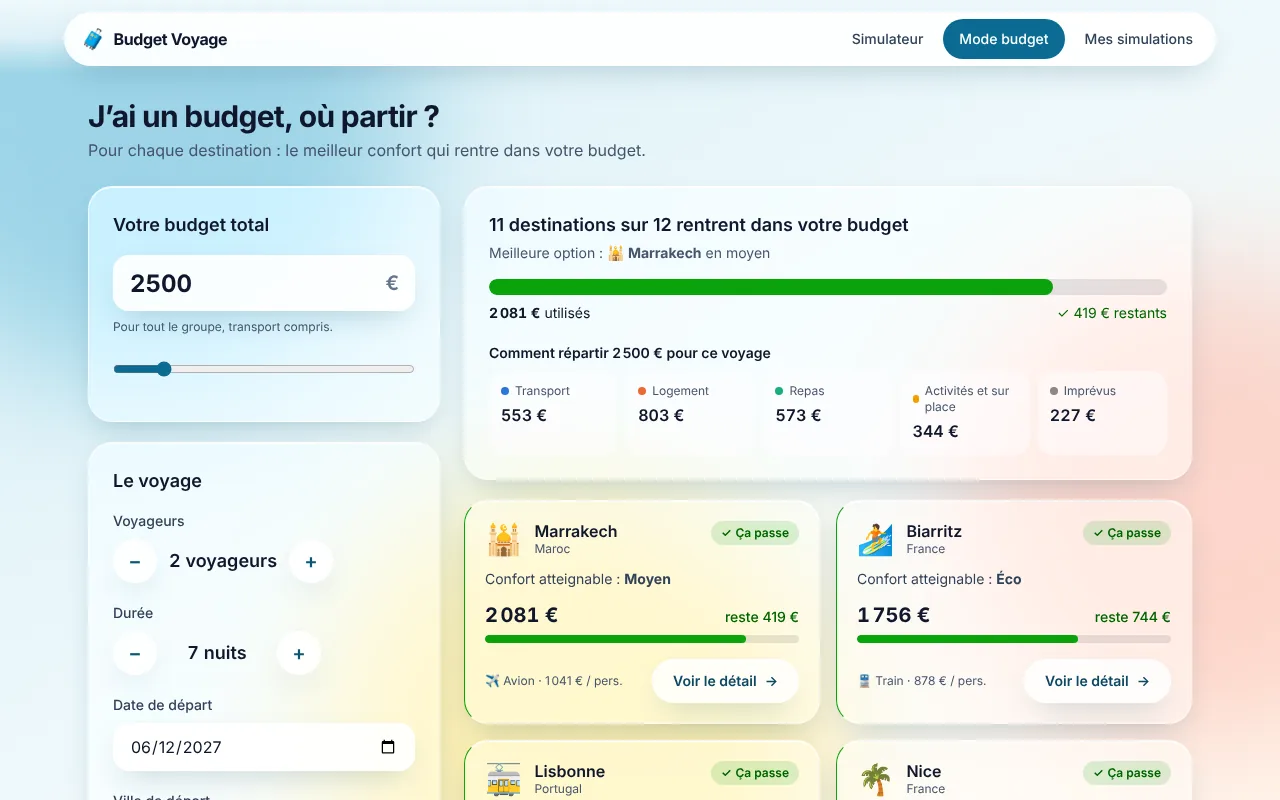
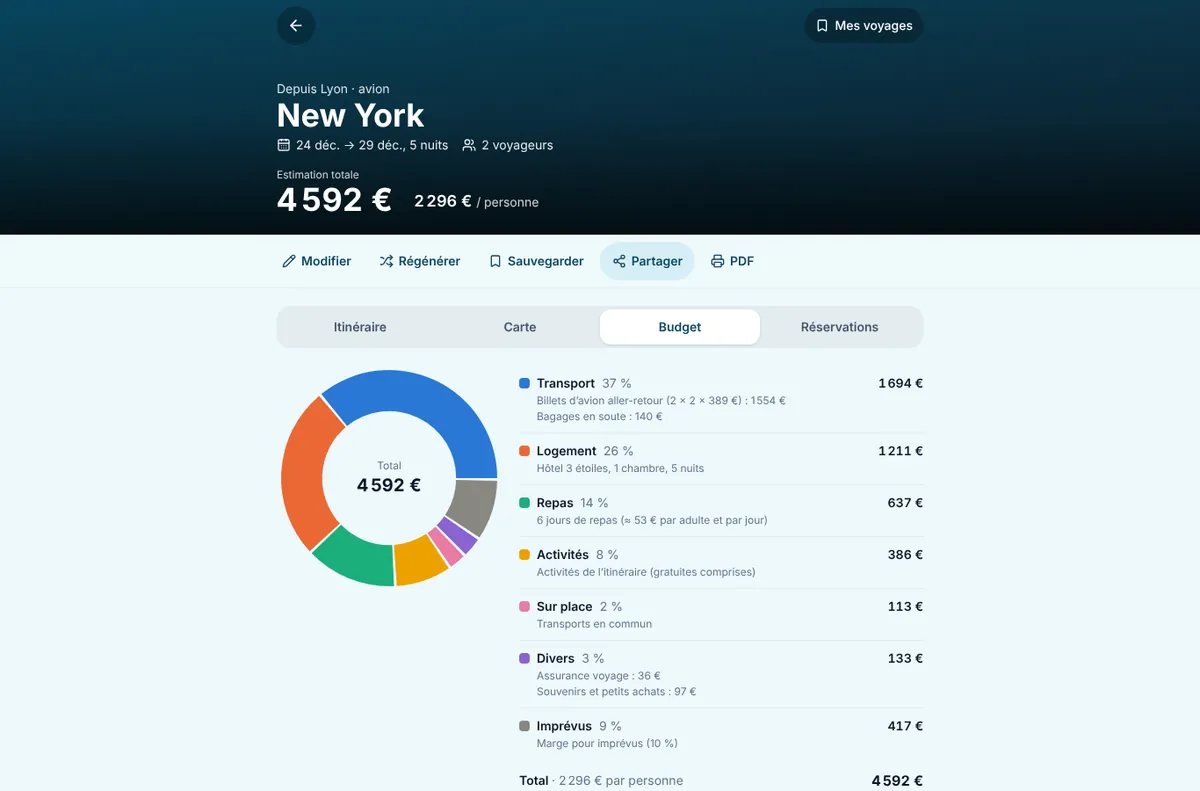
Refonte, phase 6 : finitions, README et test final
Recherche d'adresse sans biais de proximité, villes classées avant les commerces
homonymes ; recadrage de la carte quand le panneau change de taille ; photos
Wikipédia : drapeaux et blasons écartés, photo de l'article anglais en secours,
images plus grandes pour l'en-tête ; lieux de culte gratuits ; dates lisibles
dans les liens ; focus clavier visible, animations réduites sur demande ;
métadonnées, aperçu de partage, captures et README de la nouvelle version.

Claude-Session: https://claude.ai/code/session_01FtU6FVDRf54SBzWiw3Xjkb

diff --git a/src/services/services.test.ts b/src/services/services.test.ts
@@ -3,11 +3,11 @@ import { avecCache, viderCache } from './cache'
 import { coordonneesEnTexte, versLieu as lieuNominatim } from './nominatim'
 import { calculerTrajet } from './osrm'
 import { dedoublonner, requeteOverpass, typeDepuisTags, versLieuVisite } from './overpass'
-import { versLieu as lieuPhoton } from './photon'
+import { classerLieux, versLieu as lieuPhoton } from './photon'
 import { trouverLieux } from './lieux'
 import { rechercherLieux } from './recherche'
 import { creerLimiteur, enParallele } from './reseau'
-import { lireReferenceWikipedia, resumeWikipedia, typeDepuisTitre } from './wikipedia'
+import { estLieuDeCulte, estUnePhoto, imageLargeur, lireReferenceWikipedia, resumeWikipedia, typeDepuisTitre } from './wikipedia'
 
 const troyes = { lat: 48.2973, lon: 4.0744 }
 const annecy = { lat: 45.8992, lon: 6.1294 }
@@ -70,6 +70,12 @@ describe('Photon et recherche d’adresse', () => {
     const lieu = lieuPhoton({ street: 'Rue de la Paix', housenumber: '12', city: 'Paris', country: 'France', countrycode: 'FR' }, [2.33, 48.87])
     expect(lieu.nom).toBe('12 Rue de la Paix')
     expect(lieu.detail).toBe('Paris, France')
+  })
+
+  it('classe les villes avant les commerces et les rues homonymes', () => {
+    const l = (nom: string, type: string) => ({ nom, detail: '', lat: 0, lon: 0, type })
+    const r = classerLieux([l('New York Café', 'house'), l('Avenue de New York', 'street'), l('New York', 'city'), l('New York', 'state')])
+    expect(r.map((x) => `${x.nom}/${x.type}`)).toEqual(['New York/city', 'New York/state', 'Avenue de New York/street', 'New York Café/house'])
   })
 
   it('utilise Photon quand il répond', async () => {
@@ -214,9 +220,32 @@ describe('Wikipédia', () => {
     expect(r).toMatchObject({ langue: 'en', titre: 'Belém', image: 'https://upload.wikimedia.org/x.jpg' })
   })
 
-  it('écarte les drapeaux et blasons (images SVG)', async () => {
-    simulerFetch([['summary/Lisbonne', { type: 'standard', title: 'Lisbonne', extract: 'Capitale.', thumbnail: { source: 'https://upload.wikimedia.org/thumb/a/ab/Bras%C3%A3o_de_Lisboa.svg/320px-Bras%C3%A3o_de_Lisboa.svg.png' } }]])
-    expect((await resumeWikipedia('Lisbonne'))?.image).toBeUndefined()
+  it('demande une vignette plus large sans toucher aux autres adresses', () => {
+    expect(imageLargeur('https://upload.wikimedia.org/wikipedia/commons/thumb/a/b/Lisbon.jpg/330px-Lisbon.jpg?utm_source=x', 1280)).toBe('https://upload.wikimedia.org/wikipedia/commons/thumb/a/b/Lisbon.jpg/1280px-Lisbon.jpg?utm_source=x')
+    expect(imageLargeur('https://x/thumb/a/b/L.jpg/1920px-L.jpg', 1280)).toBe('https://x/thumb/a/b/L.jpg/1920px-L.jpg')
+    expect(imageLargeur('https://upload.wikimedia.org/wikipedia/commons/thumb/a/b/Lisbon.jpg/330px-Lisbon.jpg', 1280)).toBe('https://upload.wikimedia.org/wikipedia/commons/thumb/a/b/Lisbon.jpg/1280px-Lisbon.jpg')
+    expect(imageLargeur('https://example.org/photo.jpg', 1280)).toBe('https://example.org/photo.jpg')
+  })
+
+  it('compte les églises comme gratuites', () => {
+    expect(estLieuDeCulte('Église Saint-François d’Annecy')).toBe(true)
+    expect(estLieuDeCulte('Musée-Château d’Annecy')).toBe(false)
+  })
+
+  it('reconnaît les images qui ne sont pas des photos', () => {
+    expect(estUnePhoto('https://upload.wikimedia.org/thumb/a/ab/Bras%C3%A3o_de_Lisboa.svg/320px-Bras%C3%A3o_de_Lisboa.svg.png')).toBe(false)
+    expect(estUnePhoto('https://thumb.wikimedia.org/wikipedia/commons/thumb/1/16/Bandeira_municipal_de_Lisboa.png/330px-Bandeira_municipal_de_Lisboa.png')).toBe(false)
+    expect(estUnePhoto('https://upload.wikimedia.org/x/Flag_of_New_York_City.png')).toBe(false)
+    expect(estUnePhoto('https://upload.wikimedia.org/thumb/x/Lisbon_skyline.jpg/400px-Lisbon_skyline.jpg')).toBe(true)
+  })
+
+  it('garde le texte français mais emprunte la photo de l’article anglais si besoin', async () => {
+    simulerFetch([
+      ['fr.wikipedia.org/api/rest_v1/page/summary/Lisbonne', { type: 'standard', title: 'Lisbonne', extract: 'Capitale du Portugal.', thumbnail: { source: 'https://x/Bandeira_de_Lisboa.png' } }],
+      ['en.wikipedia.org/api/rest_v1/page/summary/Lisbonne', { type: 'standard', title: 'Lisbon', extract: 'Capital of Portugal.', thumbnail: { source: 'https://x/Lisbon_panorama.jpg' } }],
+    ])
+    const r = await resumeWikipedia('Lisbonne')
+    expect(r).toMatchObject({ langue: 'fr', extrait: 'Capitale du Portugal.', image: 'https://x/Lisbon_panorama.jpg' })
   })
 
   it('renvoie null sans planter si Wikipédia ne répond pas', async () => {

diff --git a/src/services/wikipedia.ts b/src/services/wikipedia.ts
@@ -27,6 +27,20 @@ export function lireReferenceWikipedia(reference: string): { langue: Langue; tit
   return correspondance ? { langue: correspondance[1] as Langue, titre: correspondance[2] } : { langue: 'fr', titre: reference }
 }
 
+/**
+ * Écarte les images qui ne sont pas des photos : drapeaux, blasons, logos, cartes
+ * (fichiers SVG ou noms explicites, en plusieurs langues).
+ */
+export function estUnePhoto(url: string): boolean {
+  let nom = url
+  try {
+    nom = decodeURIComponent(url)
+  } catch {
+    /* adresse mal encodée : on teste telle quelle */
+  }
+  return !/\.svg\/|flag|drapeau|bandeira|bandera|bandiera|flagge|blason|armoiries|coat[_ ]of[_ ]arms|brasão|escudo|wappen|stemma|seal[_ ]of|logo|emblem|locator|location[_ ]map|carte[_ ]|map[_ ]of/i.test(nom)
+}
+
 async function resumeDansLangue(titre: string, langue: Langue, signal?: AbortSignal): Promise<ResumeWikipedia | null> {
   return avecCache(`wiki-resume:${langue}:${titre}`, async () => {
     const url = `https://${langue}.wikipedia.org/api/rest_v1/page/summary/${encodeURIComponent(titre.replaceAll(' ', '_'))}`
@@ -36,8 +50,7 @@ async function resumeDansLangue(titre: string, langue: Langue, signal?: AbortSig
       return {
         titre: r.title,
         extrait: r.extract,
-        // Les images SVG sont des drapeaux, blasons ou logos : pas de vraies photos
-        image: r.thumbnail?.source && !/\.svg\//i.test(r.thumbnail.source) ? r.thumbnail.source : undefined,
+        image: r.thumbnail?.source && estUnePhoto(r.thumbnail.source) ? r.thumbnail.source : undefined,
         lien: r.content_urls?.desktop?.page ?? `https://${langue}.wikipedia.org/wiki/${encodeURIComponent(titre)}`,
         langue,
       }
@@ -52,8 +65,22 @@ async function resumeDansLangue(titre: string, langue: Langue, signal?: AbortSig
 export async function resumeWikipedia(reference: string, signal?: AbortSignal): Promise<ResumeWikipedia | null> {
   const { langue, titre } = lireReferenceWikipedia(reference)
   const premier = await resumeDansLangue(titre, langue, signal)
-  if (premier || langue === 'en') return premier
-  return resumeDansLangue(titre, 'en', signal)
+  if (langue === 'en' || (premier && premier.image)) return premier
+  // Pas d'article, ou pas de vraie photo : on regarde l'article anglais (souvent illustré d'une photo de la ville)
+  const anglais = await resumeDansLangue(premier?.titre ?? titre, 'en', signal)
+  if (!premier) return anglais
+  return anglais?.image ? { ...premier, image: anglais.image } : premier
+}
+
+/** Églises, cathédrales… : entrée généralement libre. */
+export const estLieuDeCulte = (titre: string) => /(^|[^\p{L}])([ée]glise|cath[ée]drale|basilique|chapelle|temple|mosqu[ée]e|synagogue|church|cathedral|chapel)(?![\p{L}])/iu.test(titre)
+
+/**
+ * Vignette Wikimedia à la largeur voulue (les adresses « …/330px-Fichier.jpg » acceptent les largeurs standard : 500, 960, 1280…).
+ * Laisse l'adresse telle quelle si elle n'a pas ce format.
+ */
+export function imageLargeur(url: string, largeur: number): string {
+  return url.replace(/\/(\d+)px-([^/?]+)(\?.*)?$/, (tout, px, fichier, requete = '') => (Number(px) >= largeur ? tout : `/${largeur}px-${fichier}${requete}`))
 }
 
 /** Devine le type d'un lieu Wikipédia d'après son titre (pas de tags comme dans OSM). */
@@ -87,6 +114,7 @@ export async function lieuxWikipedia(centre: Coordonnees, rayonKm: number, signa
       id: `wiki-${g.pageid}`,
       nom: g.title,
       type: typeDepuisTitre(g.title),
+      ...(estLieuDeCulte(g.title) ? { gratuit: true } : {}),
       lat: g.lat,
       lon: g.lon,
       wikipedia: `fr:${g.title}`,

diff --git a/src/App.tsx b/src/App.tsx
@@ -1,36 +1,45 @@
-import { lazy, Suspense } from 'react'
-import { HashRouter, Navigate, Route, Routes } from 'react-router'
+import { lazy, Suspense } from "react";
+import { MotionConfig } from "framer-motion";
+import { HashRouter, Navigate, Route, Routes } from "react-router";
 
 // Chaque écran est chargé à la demande : la carte (Leaflet) et les graphiques ne pèsent que là où ils servent.
-const Carte = lazy(() => import('./pages/Carte'))
-const Configurer = lazy(() => import('./pages/Configurer'))
-const Calcul = lazy(() => import('./pages/Calcul'))
-const Voyage = lazy(() => import('./pages/Voyage'))
-const MesVoyages = lazy(() => import('./pages/MesVoyages'))
-const Partage = lazy(() => import('./pages/Partage'))
+const Carte = lazy(() => import("./pages/Carte"));
+const Configurer = lazy(() => import("./pages/Configurer"));
+const Calcul = lazy(() => import("./pages/Calcul"));
+const Voyage = lazy(() => import("./pages/Voyage"));
+const MesVoyages = lazy(() => import("./pages/MesVoyages"));
+const Partage = lazy(() => import("./pages/Partage"));
 
 export const ROUTES = {
-  carte: '/',
-  configurer: '/configurer',
-  calcul: '/calcul',
-  voyage: '/voyage',
-  mesVoyages: '/mes-voyages',
-} as const
+  carte: "/",
+  configurer: "/configurer",
+  calcul: "/calcul",
+  voyage: "/voyage",
+  mesVoyages: "/mes-voyages",
+} as const;
 
 export default function App() {
   return (
-    <HashRouter>
-      <Suspense fallback={<div className="grid min-h-dvh place-items-center text-slate-500">Chargement…</div>}>
-        <Routes>
-          <Route path={ROUTES.carte} element={<Carte />} />
-          <Route path={ROUTES.configurer} element={<Configurer />} />
-          <Route path={ROUTES.calcul} element={<Calcul />} />
-          <Route path={ROUTES.voyage} element={<Voyage />} />
-          <Route path={ROUTES.mesVoyages} element={<MesVoyages />} />
-          <Route path="/partage" element={<Partage />} />
-          <Route path="*" element={<Navigate to={ROUTES.carte} replace />} />
-        </Routes>
-      </Suspense>
-    </HashRouter>
-  )
+    <MotionConfig reducedMotion="user">
+      <HashRouter>
+        <Suspense
+          fallback={
+            <div className="grid min-h-dvh place-items-center text-slate-500">
+              Chargement…
+            </div>
+          }
+        >
+          <Routes>
+            <Route path={ROUTES.carte} element={<Carte />} />
+            <Route path={ROUTES.configurer} element={<Configurer />} />
+            <Route path={ROUTES.calcul} element={<Calcul />} />
+            <Route path={ROUTES.voyage} element={<Voyage />} />
+            <Route path={ROUTES.mesVoyages} element={<MesVoyages />} />
+            <Route path="/partage" element={<Partage />} />
+            <Route path="*" element={<Navigate to={ROUTES.carte} replace />} />
+          </Routes>
+        </Suspense>
+      </HashRouter>
+    </MotionConfig>
+  );
 }

diff --git a/src/engine/liens.ts b/src/engine/liens.ts
@@ -56,6 +56,7 @@ export function genererLiensReservation({ depart, arrivee, reglages }: EntreeLie
   const av = reglagesEffectifs(reglages)
   const aller = s.dateDepart
   const retour = ajouterJours(s.dateDepart, s.nuits)
+  const jj = (iso: string) => iso.split('-').reverse().join('/')
   const de = ville(depart)
   const a = ville(arrivee)
   const coord = (l: Lieu) => `${l.lat.toFixed(5)},${l.lon.toFixed(5)}`
@@ -66,7 +67,7 @@ export function genererLiensReservation({ depart, arrivee, reglages }: EntreeLie
       {
         categorie: 'transport',
         titre: 'Comparer les vols (Google Vols)',
-        description: `${de} → ${a}, aller le ${aller}, retour le ${retour}, ${s.adultes + s.enfants} voyageur(s)`,
+        description: `${de} → ${a}, aller le ${jj(aller)}, retour le ${jj(retour)}, ${s.adultes + s.enfants} voyageur(s)`,
         url: `https://www.google.com/travel/flights?hl=fr&q=${q(`Vols de ${de} à ${a} le ${aller} retour le ${retour} ${s.adultes} adultes${s.enfants ? ` ${s.enfants} enfants` : ''}`)}`,
         preRempli: true,
       },
@@ -86,7 +87,7 @@ export function genererLiensReservation({ depart, arrivee, reglages }: EntreeLie
       {
         categorie: 'transport',
         titre: 'Covoiturage (BlaBlaCar)',
-        description: `Places libres pour ${de} → ${a} le ${aller}`,
+        description: `Places libres pour ${de} → ${a} le ${jj(aller)}`,
         url: `https://www.blablacar.fr/search?fn=${q(de)}&tn=${q(a)}&db=${aller}&seats=${Math.min(4, s.adultes + s.enfants)}`,
         preRempli: true,
       },
@@ -99,7 +100,7 @@ export function genererLiensReservation({ depart, arrivee, reglages }: EntreeLie
   liens.push({
     categorie: 'logement',
     titre: av.typeLogement === 'hotel' ? `Hôtels ${av.etoiles} étoiles (Booking.com)` : 'Hébergements (Booking.com)',
-    description: `${a}, du ${aller} au ${retour}, ${s.adultes} adulte(s)${s.enfants ? `, ${s.enfants} enfant(s)` : ''}`,
+    description: `${a}, du ${jj(aller)} au ${jj(retour)}, ${s.adultes} adulte(s)${s.enfants ? `, ${s.enfants} enfant(s)` : ''}`,
     url:
       `https://www.booking.com/searchresults.fr.html?ss=${q(a)}&checkin=${aller}&checkout=${retour}&group_adults=${s.adultes}&group_children=${s.enfants}&no_rooms=${chambres}` +
       (s.enfants ? Array.from({ length: s.enfants }, () => '&age=8').join('') : '') +
@@ -110,7 +111,7 @@ export function genererLiensReservation({ depart, arrivee, reglages }: EntreeLie
     liens.push({
       categorie: 'logement',
       titre: 'Appartements (Airbnb)',
-      description: `${a}, du ${aller} au ${retour}`,
+      description: `${a}, du ${jj(aller)} au ${jj(retour)}`,
       url: `https://www.airbnb.fr/s/${q(a)}/homes?checkin=${aller}&checkout=${retour}&adults=${s.adultes}&children=${s.enfants}`,
       preRempli: true,
     })

diff --git a/index.html b/index.html
@@ -3,15 +3,15 @@
   <head>
     <meta charset="UTF-8" />
     <meta name="viewport" content="width=device-width, initial-scale=1.0, viewport-fit=cover" />
-    <title>Budget Voyage — simulateur de coût de vacances</title>
-    <meta name="description" content="Estimez le coût de vos vacances poste par poste : transport, logement, repas, activités. Ou trouvez où partir avec votre budget." />
+    <title>Budget Voyage : choisissez, configurez, partez</title>
+    <meta name="description" content="Choisissez votre trajet sur la carte, réglez votre voyage et obtenez son coût poste par poste, un itinéraire jour par jour et des liens pour réserver." />
     <meta name="theme-color" content="#eef8fb" media="(prefers-color-scheme: light)" />
     <meta name="theme-color" content="#0a2535" media="(prefers-color-scheme: dark)" />
     <meta name="color-scheme" content="light dark" />
     <meta property="og:type" content="website" />
     <meta property="og:locale" content="fr_FR" />
-    <meta property="og:title" content="Budget Voyage — combien vont coûter vos vacances ?" />
-    <meta property="og:description" content="Transport, logement, repas, activités : une estimation claire poste par poste, ou les destinations qui rentrent dans votre budget." />
+    <meta property="og:title" content="Budget Voyage : combien va coûter votre voyage ?" />
+    <meta property="og:description" content="Un trajet sur la carte, quelques réglages, et vous obtenez le budget détaillé, l’itinéraire jour par jour et les liens pour réserver." />
     <meta property="og:image" content="https://santinlivio9-hub.github.io/Vacances-app/apercu.jpg" />
     <meta name="twitter:card" content="summary_large_image" />
     <link rel="icon" type="image/svg+xml" href="/favicon.svg" />

diff --git a/src/services/photon.ts b/src/services/photon.ts
@@ -46,14 +46,26 @@ export function versLieu(p: ProprietesPhoton, [lon, lat]: [number, number]): Lie
   }
 }
 
+const TYPES_LOCALITE = new Set(['city', 'town', 'village', 'locality', 'district', 'county', 'state', 'country', 'region', 'island'])
+
+/**
+ * On cherche surtout des destinations : villes, régions et pays passent devant les commerces
+ * et les rues homonymes (« New York » ne doit pas proposer d'abord un café parisien).
+ * Le tri est stable : l'ordre de pertinence de Photon est conservé à l'intérieur de chaque groupe.
+ */
+export function classerLieux(lieux: Lieu[]): Lieu[] {
+  const rang = (l: Lieu) => (l.type && TYPES_LOCALITE.has(l.type) ? 0 : l.type === 'street' ? 1 : 2)
+  return lieux.map((l, i) => ({ l, i })).sort((a, b) => rang(a.l) - rang(b.l) || a.i - b.i).map(({ l }) => l)
+}
+
 export async function rechercherPhoton(texte: string, proximite?: Coordonnees, signal?: AbortSignal): Promise<Lieu[]> {
-  const params = new URLSearchParams({ q: texte.trim(), limit: '6', lang: 'fr' })
+  const params = new URLSearchParams({ q: texte.trim(), limit: '10', lang: 'fr' })
   if (proximite) {
     params.set('lat', proximite.lat.toFixed(3))
     params.set('lon', proximite.lon.toFixed(3))
   }
   return avecCache(`photon:${params}`, async () => {
     const reponse = await lireJson<ReponsePhoton>(`${URL_PHOTON}?${params}`, { service: 'Photon', delaiMs: 5000, signal })
-    return reponse.features.map((f) => versLieu(f.properties, f.geometry.coordinates))
+    return classerLieux(reponse.features.map((f) => versLieu(f.properties, f.geometry.coordinates))).slice(0, 6)
   })
 }

diff --git a/src/pages/Voyage.tsx b/src/pages/Voyage.tsx
@@ -11,6 +11,7 @@ import { cleVoyage, useResultat } from '../store/resultat'
 import { cleTrajet, useVoyage } from '../store/voyage'
 import { formatEuros } from '../ui/format'
 import { MentionDonnees } from '../ui/MentionDonnees'
+import { imageLargeur } from '../services/wikipedia'
 import { coutsDuResultat } from '../voyage/calcul'
 import { Economies } from '../voyage/Economies'
 import { OngletItineraire } from '../voyage/OngletItineraire'
@@ -113,8 +114,8 @@ export default function Voyage() {
     <div className="min-h-dvh pb-12">
       {/* En-tête : photo, total, jauge */}
       <header className="relative isolate overflow-hidden bg-gradient-to-br from-ocean-600 to-ocean-900 text-white print:bg-none print:text-black">
-        {resultat.resume?.image && <img src={resultat.resume.image} alt="" className="absolute inset-0 -z-10 size-full object-cover print:hidden" />}
-        <div className="absolute inset-0 -z-10 bg-gradient-to-t from-black/75 via-black/35 to-black/20 print:hidden" />
+        {resultat.resume?.image && <img src={imageLargeur(resultat.resume.image, 1280)} alt="" className="absolute inset-0 -z-10 size-full object-cover print:hidden" />}
+        <div className="absolute inset-0 -z-10 bg-gradient-to-t from-black/80 via-black/45 to-black/35 print:hidden" />
         <div className="mx-auto max-w-3xl px-4 pt-3 pb-5">
           <div className="flex items-center justify-between print:hidden">
             <Link to="/" className="grid size-11 place-items-center rounded-full bg-black/25 backdrop-blur hover:bg-black/40" aria-label="Retour à la carte">

diff --git a/src/carte/PanneauTrajet.tsx b/src/carte/PanneauTrajet.tsx
@@ -2,6 +2,7 @@ import { ArrowRight, Bus, Car, Clock, ExternalLink, Info, LocateFixed, Plane, Ro
 import type { Lieu, ModeTransport, ResumeWikipedia } from '../domain/types'
 import { apercuPrix } from '../engine/apercu'
 import { moisDe } from '../engine/dates'
+import { imageLargeur } from '../services/wikipedia'
 import { formatDuree, formatEuros, formatKm } from '../ui/format'
 import type { ItineraireCarte } from './itineraire'
 
@@ -39,7 +40,7 @@ export function PanneauTrajet({ depart, arrivee, itineraire, resume, nuits, date
   return (
     <article aria-label={`Trajet vers ${arrivee.nom}`}>
       <div className="relative h-28 overflow-hidden rounded-2xl bg-gradient-to-br from-ocean-300 to-ocean-700 sm:h-44">
-        {resume?.image && <img src={resume.image} alt={`Vue de ${arrivee.nom}`} className="absolute inset-0 size-full object-cover" />}
+        {resume?.image && <img src={imageLargeur(resume.image, 500)} alt={`Vue de ${arrivee.nom}`} className="absolute inset-0 size-full object-cover" />}
         <div className="absolute inset-0 bg-gradient-to-t from-black/65 via-black/5 to-transparent" />
         <div className="absolute inset-x-4 bottom-3 text-white">
           <h2 className="text-2xl leading-tight font-bold [text-wrap:balance]">{arrivee.nom}</h2>

diff --git a/src/config/SectionsAvancees.tsx b/src/config/SectionsAvancees.tsx
@@ -1,4 +1,4 @@
-import { BedDouble, Coins, Route, Ticket, UtensilsCrossed } from 'lucide-react'
+import { BedDouble, Coins, Luggage, Ticket, UtensilsCrossed } from 'lucide-react'
 import type { CleAvancee, ClasseVoyage, NiveauResto, Quartier, ReglagesAvances, RepartitionBudget, Rythme, TransportLocal, TypeActivite, TypeLogement } from '../domain/types'
 import { ajusterRepartition, estModifie, reglagesEffectifs } from '../engine/reglages'
 import { useVoyage } from '../store/voyage'
@@ -31,7 +31,7 @@ export function SectionsAvancees({ estimation }: { estimation: Estimation }) {
 
   return (
     <>
-      <CarteReglage titre="Transport" icone={Route} resume={`${formatEuros(p.transport + p.transportLocal)} · sur place : ${TRANSPORT_LOCAL_UI[av.transportLocal].libelle.toLowerCase()}`} {...section(SECTIONS_AVANCEES.transport)}>
+      <CarteReglage titre="Transport" icone={Luggage} resume={`${formatEuros(p.transport + p.transportLocal)} · sur place : ${TRANSPORT_LOCAL_UI[av.transportLocal].libelle.toLowerCase()}`} {...section(SECTIONS_AVANCEES.transport)}>
         {mode === 'voiture' && (
           <>
             <Reglage libelle="Nombre de véhicules" {...etat('vehicules')}>

diff --git a/src/index.css b/src/index.css
@@ -63,6 +63,12 @@
   }
 }
 
+/* Focus clavier toujours visible */
+:where(a, button, input:not([role='combobox']), select, textarea, [tabindex]):focus-visible {
+  outline: 2px solid var(--color-ocean-500);
+  outline-offset: 2px;
+}
+
 body {
   @apply bg-ocean-50 text-slate-900 antialiased dark:bg-ocean-950 dark:text-slate-100;
 }
@@ -183,4 +189,14 @@ body {
   color: #fff;
   font: 700 12px/1 'Inter Variable', system-ui, sans-serif;
   box-shadow: 0 3px 8px -2px rgb(0 0 0 / 0.4);
+}
+
+@media (prefers-reduced-motion: reduce) {
+  *,
+  *::before,
+  *::after {
+    animation-duration: 0.01ms !important;
+    transition-duration: 0.01ms !important;
+    scroll-behavior: auto !important;
+  }
 }

diff --git a/src/pages/Carte.tsx b/src/pages/Carte.tsx
@@ -174,7 +174,6 @@ export default function Carte() {
               placeholder="Point de départ"
               valeur={depart}
               onChoisir={definirDepart}
-              proximite={arrivee ?? undefined}
               pastille={<Pastille lettre="A" couleur="bg-ocean-700" />}
               action={boutonPosition}
             />
@@ -183,7 +182,6 @@ export default function Carte() {
               placeholder="Où allez-vous ?"
               valeur={arrivee}
               onChoisir={definirArrivee}
-              proximite={depart ?? undefined}
               pastille={<Pastille lettre="B" couleur="bg-corail-700" />}
             />
             {(depart || arrivee) && (

diff --git a/src/carte/FondCarte.tsx b/src/carte/FondCarte.tsx
@@ -48,7 +48,8 @@ function Evenements({ onPoint }: { onPoint: Props['onPoint'] }) {
 /** Recadre la carte quand le trajet change. */
 function Cadrage({ points, marges }: { points: [number, number][]; marges: Props['marges'] }) {
   const carte = useMap()
-  const cle = points.map((p) => p.join(',')).join(';')
+  // On recadre aussi quand les panneaux changent de hauteur (photo et texte chargés après coup)
+  const cle = `${points.map((p) => p.join(',')).join(';')}|${Math.round(marges.haut / 40)},${Math.round(marges.bas / 40)},${Math.round(marges.gauche / 40)}`
   useEffect(() => {
     if (points.length === 0) return
     const options = {
